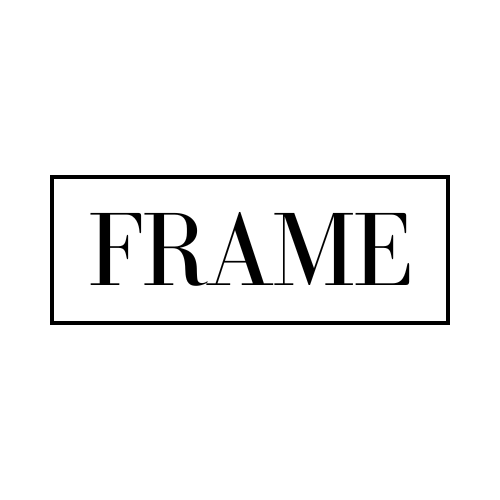
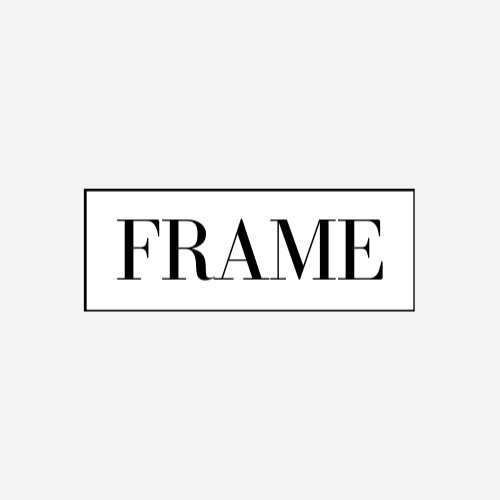
landing page added and styled

Changed region(s): [[0.09, 0.33, 0.9, 0.66]]

diff --git a/App.js b/App.js
@@ -1,27 +1,33 @@
 import React, { useState, useEffect } from "react";
-import { View, Text, Button, StyleSheet } from "react-native";
-import { getAuth, onAuthStateChanged } from "firebase/auth";
-import ImageUploader from "./imageUpload";
+import {View, Text, TouchableOpacity, StyleSheet, Dimensions} from "react-native";
+import { getAuth, onAuthStateChanged, signOut } from "firebase/auth";
 import AuthScreen from "./signUp";
-import Header from "./header"; // Import Header component
-import ImageFetcher from "./galleryView";
+import ImageUploader from "./imageUpload";
 import ImageCarousel from "./galleryView";
+import HomeScreen from "./landingPage";
+import Header from "./header";
 
 export default function App() {
-    const [user, setUser] = useState(null); // State for tracking user
-    const [loading, setLoading] = useState(true); // State for loading indicator
-    const [mode, setMode] = useState("display"); // State for tracking current mode ("display" or "upload")
+    const [user, setUser] = useState(null);
+    const [loading, setLoading] = useState(true);
+    const [mode, setMode] = useState("home");
 
     const auth = getAuth();
 
     useEffect(() => {
         const unsubscribe = onAuthStateChanged(auth, (currentUser) => {
-            setUser(currentUser); // Update user state if logged in
-            setLoading(false); // Hide loading spinner when auth state is known
+            setUser(currentUser);
+            setLoading(false);
         });
 
-        return () => unsubscribe(); // Cleanup listener on component unmount
+        return () => unsubscribe();
     }, []);
+
+    const handleLogout = async () => {
+        await signOut(auth);
+        setUser(null);
+        setMode("home");
+    };
 
     if (loading) {
         return (
@@ -32,26 +38,53 @@ export default function App() {
     }
 
     if (!user) {
-        return <AuthScreen />; // Show login form if no user is logged in
+        return <AuthScreen />;
     }
 
     return (
         <View style={styles.container}>
-            {/* Pass the user and setMode to Header */}
-            <Header user={user} onLogout={() => setUser(null)} setMode={setMode} mode={mode} />
+            {mode !== "home" && (
+                <View>
+                    <Header user={user} onLogout={handleLogout} setMode={setMode} mode={mode} />
+                </View>
+            )}
 
-            {/* Conditionally render content based on the current mode */}
-            {mode === "display" ? (
-                <ImageUploader userId={user?.uid}/>
-            ) : (
-                <ImageCarousel userId={user?.uid}/>
+            {mode === "home" && <HomeScreen setMode={setMode} handleLogout={handleLogout} />}
+            {mode === "view" && <ImageCarousel userId={user?.uid} />}
+            {mode === "upload" && <ImageUploader userId={user?.uid} />}
+            {mode === "share" && <Text>Sharing Feature Coming Soon...</Text>}
+
+            {mode !== "home" && (
+
+                <TouchableOpacity onPress={() => setMode("home")} style={styles.backButton}>
+                    <Text style={styles.backText}>Back to Home</Text>
+                </TouchableOpacity>
             )}
         </View>
     );
 }
-
+const screenWidth = Dimensions.get('window').width;
+const screenHeight = Dimensions.get('window').height;
 const styles = StyleSheet.create({
     container: {
         flex: 1,
     },
+    backButton: {
+        marginTop: 20,
+        padding: 10,
+    },
+    backText: {
+        color: "#007bff",
+        fontSize: 16,
+    },
+    embellishment: {
+        resizeMode:"cover",
+        width: screenWidth,
+        height: screenHeight * .15,
+        overflow: "hidden",
+        position: 'absolute',
+        bottom: 0,
+        left: 0,
+    }
+
 });

diff --git a/landingPage.js b/landingPage.js
@@ -1,0 +1,89 @@
+import React from "react";
+import {View, Text, Image, TouchableOpacity, StyleSheet, Dimensions} from "react-native";
+import embellishment from "./assets/FrameEmbellishment.png";
+
+export default function HomeScreen({ setMode, handleLogout }) {
+    return (
+        <View style={styles.container}>
+            {/* Frame Logo */}
+            <Image source={require("./assets/FRAME.png")} style={styles.logo} />
+
+            {/* Navigation Buttons */}
+            <View style={styles.buttonContainer}>
+                <TouchableOpacity style={styles.button} onPress={() => setMode("view")}>
+                    <Text style={styles.buttonText}>View</Text>
+                </TouchableOpacity>
+                <TouchableOpacity style={styles.button} onPress={() => setMode("upload")}>
+                    <Text style={styles.buttonText}>Upload</Text>
+                </TouchableOpacity>
+                <TouchableOpacity style={styles.button} onPress={() => setMode("share")}>
+                    <Text style={styles.buttonText}>Share</Text>
+                </TouchableOpacity>
+            </View>
+
+            {/* Logout Button */}
+            <TouchableOpacity onPress={handleLogout} style={styles.logoutButton}>
+                <Text style={styles.logoutText}>Logout</Text>
+            </TouchableOpacity>
+            <Image source={embellishment} style={styles.embellishment} />
+        </View>
+    );
+}
+const screenWidth = Dimensions.get('window').width;
+const screenHeight = Dimensions.get('window').height;
+
+const styles = StyleSheet.create({
+    container: {
+        flex: 1,
+        alignItems: "center",
+        backgroundColor: "#f4f4f4",
+    },
+    logo:{
+        marginTop: screenHeight * .15,
+        marginBottom: screenHeight *.075,
+        resizeMode:"cover",
+        width: screenWidth,
+        height: screenHeight * .2,
+        overflow: "hidden",
+    },
+    buttonContainer: {
+        width: "80%",
+        alignItems: "center",
+    },
+    button: {
+        height: 40,
+        borderColor: 'gray',
+        borderWidth: 1,
+        marginBottom: 10,
+        width: screenWidth * 0.8,
+        maxWidth: 300,
+        backgroundColor: "white",
+        alignItems: "center",
+    },
+    buttonText: {
+        padding: 4,
+        fontFamily: "Futura",
+        fontSize: 20,
+        fontWeight: 'thin',
+        marginBottom: 10,
+    },
+    logoutButton: {
+        marginTop: 20,
+        padding: 10,
+    },
+    logoutText: {
+        color: "red",
+        fontSize: 16,
+        fontWeight: "bold",
+    },
+    embellishment: {
+        resizeMode:"cover",
+        width: screenWidth,
+        height: screenHeight * .15,
+        overflow: "hidden",
+        position: 'absolute',
+        bottom: 0,
+        left: 0,
+    },
+
+});

diff --git a/signUp.js b/signUp.js
@@ -32,7 +32,7 @@ export default function AuthScreen() {
     const handleLogin = async () => {
         try {
             await signInWithEmailAndPassword(auth, email, password);
-            Alert.alert("Login Successful", "You are now logged in!");
+
         } catch (error) {
             Alert.alert("Login Failed", error.message);
         }
@@ -121,6 +121,7 @@ const styles = StyleSheet.create({
         flex: 1,
         alignItems: 'center',
         padding: 10,
+        backgroundColor: "#f4f4f4",
 
     },
     input: {
@@ -131,6 +132,7 @@ const styles = StyleSheet.create({
         width: screenWidth * 0.8,
         maxWidth: 300,
         paddingHorizontal: 10,
+        backgroundColor: "white",
     },
     title: {
         alignItems: "center",
@@ -140,6 +142,7 @@ const styles = StyleSheet.create({
         marginBottom: 10,
     },
     passwordContainer: {
+
         flexDirection: 'row',
         alignItems: 'center',
         width: screenWidth * 0.8,

diff --git a/imageUpload.js b/imageUpload.js
@@ -234,11 +234,23 @@ export default function ImageUploader({ userId }) {
     useEffect(() => {
         if (userId) {
             const fetchData = async () => {
-                await createAlbum(userId, setAlbums, setSelectedAlbum);
+                const albumRef = collection(db, "albums");
+                const q = query(albumRef, where("createdBy", "==", userId));
+                const albumSnapshot = await getDocs(q);
+                const userAlbums = albumSnapshot.docs.map(doc => ({ id: doc.id, ...doc.data() }));
+
+                setAlbums(userAlbums);
+
+                if (userAlbums.length === 0) {
+                    await createAlbum(userId, setAlbums, setSelectedAlbum);
+                } else {
+                    setSelectedAlbum(userAlbums[0].id);
+                }
             };
             fetchData();
         }
     }, [userId]);
+
 
     return (
         <View style={styles.container}>
